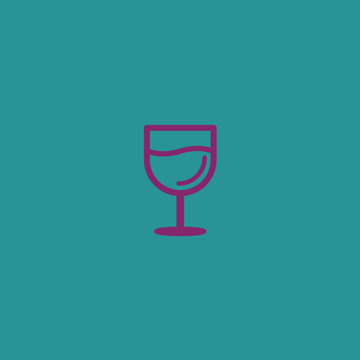
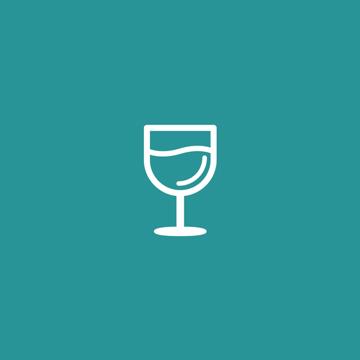
Updated Info
Change wine fest images, changed links on homepage

Changed region(s): [[0.3972, 0.3361, 0.6111, 0.6722]]

diff --git a/index.html b/index.html
@@ -157,7 +157,7 @@
 							<h2>Game Changer Charity</h2>
 							<h4>Global Cloud - Client Work</h4>
 						</div>
-						<a href="projects/game-changer.html"></a>
+						<a href="http://gamechangercharity.donordrive.com/" target="_blank"></a>
 					</figcaption>
 				</div>
 				
@@ -168,7 +168,7 @@
 							<h2>Vian Sora</h2>
 							<h4>Mediaura - Client Work</h4>
 						</div>
-						<a href="projects/vian-sora.html"></a>
+						<a href="http://viansora.com/"></a>
 					</figcaption>
 				</div>
 
